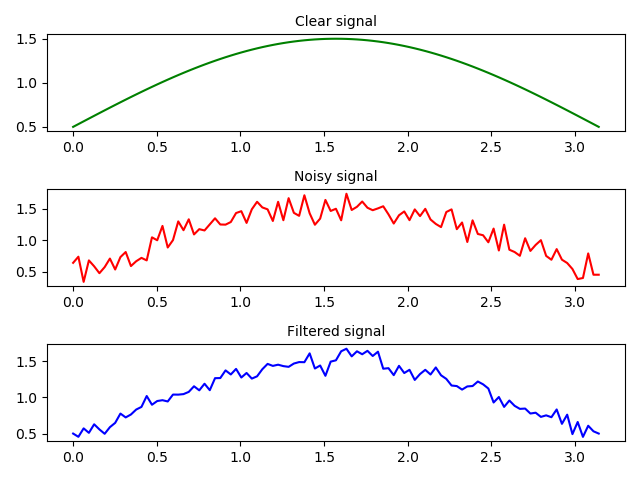
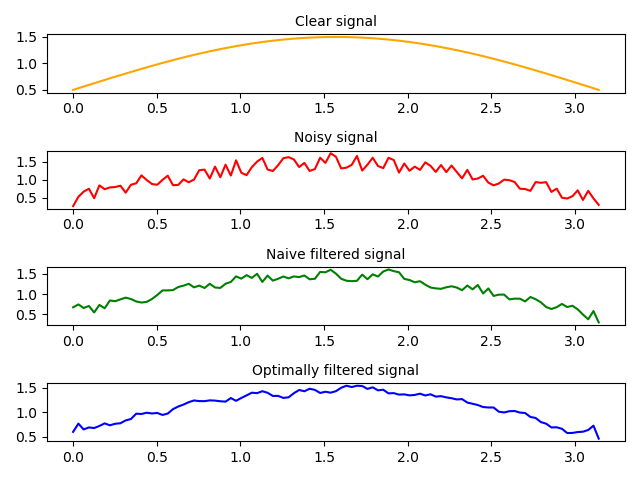
the rest of work

diff --git a/_masters_/decision_theory/lab4_filtration/filter.py b/_masters_/decision_theory/lab4_filtration/filter.py
@@ -1,13 +1,18 @@
 import math
 import random
 import matplotlib.pyplot as plt
+import numpy as np
 
-FUNC = lambda x: math.sin(x) + 0.5  # исходая функция
-K_STEPS = 100  # количество отсчетов
-R_WINDOW_SIZE = 3  # размер скользящего окна
-SIGMA_NOISE_AMPLITUDE = 0.25  # разброс значений зашемленного сигнала
-X_MIN = 0  # интервал от
-X_MAX = math.pi  # интервал до
+# @formatter:off
+SIGNAL_FUNC = lambda x: math.sin(x) + 0.5       # исходая функция
+K_STEPS = 100                                   # количество отсчетов
+R_WINDOW_SIZE = 5                               # размер скользящего окна
+SIGMA_NOISE_AMPLITUDE = 0.25                    # разброс значений зашемленного сигнала
+X_MIN = 0                                       # интервал от
+X_MAX = math.pi                                 # интервал до
+NAIVE_CENTRAL_ALPHA = 0.5                       # наивное значение alpha
+NAIVE_LAMBDA = 0.5                              # наивное значение лямбды
+# @formatter:on
 
 
 # шум с нормальным распределением
@@ -16,81 +21,165 @@ def uniform_noise(signal: float) -> float:
     return signal + noise
 
 
-# Среднее гармоническое
-# def harmonic_mean(k: int, m: int, alphas: list) -> float:
+# критерий зашумленности сигнала, метрика чебышева
+# aka максимальная разность двух рядомстоящих элементов
+def noisy_criteria(signal: list) -> float:
+    max_diff = -999999
+    for k in range(1, K_STEPS):
+        diff = abs(signal[k] - signal[k - 1])
+        if diff > max_diff:
+            max_diff = diff
+    return max_diff
 
-# Чебышева
+
+# критейрий близости сигналов, метрика чебышева
+def closeness_criteria(signal1: list, signal2: list) -> float:
+    max_diff = -999999
+    for k in range(0, K_STEPS):
+        diff = abs(signal1[k] - signal2[k])
+        if diff > max_diff:
+            max_diff = diff
+    return max_diff
+
+
+# метрика расстояния до идеальной точки, метрика чебышева
+def ideal_point_distance_metric(omega: float, delta: float) -> float:
+    return max(omega, delta)
 
 
 class Signal:
-    def __init__(self, func: callable, xmin: float, xmax: float, steps: int,
-                 window_size: int):
+    def __init__(self, func: callable):
         self.signal_function = func
-        self.x_min = xmin
-        self.x_max = xmax
-        self.steps = steps
-        self.window_size = window_size
-        self.m = (window_size - 1) // 2
+        self.m = (R_WINDOW_SIZE - 1) // 2
+        self.central_alpha = NAIVE_CENTRAL_ALPHA
+        self.lambda_weight = NAIVE_LAMBDA
 
     @property
-    def xs(self) -> list:
+    def xs(self):
         xs = []
-        x_curr = self.x_min
-        step = (self.x_max - self.x_min) / self.steps
-        while x_curr <= self.x_max:
+        x_curr = X_MIN
+        step = (X_MAX - X_MIN) / K_STEPS
+        while x_curr <= X_MAX:
             xs.append(x_curr)
             x_curr += step
         return xs
 
-    @property
     def clear_signal(self) -> list:
         return list(map(lambda x: self.signal_function(x), self.xs))
 
-    @property
     def noisy_signal(self) -> list:
-        return list(map(lambda signal: uniform_noise(signal), self.clear_signal))
+        return list(map(lambda signal: uniform_noise(signal), self.clear_signal()))
 
-    @property
-    def filtered_signal(self) -> list:
-        fs = self.noisy_signal
-        alphas = [0.4, 0.2, 0.4]  # TODO wtf is this
-
+    def filtered_signal(self, signal: list) -> list:
         filtered = []
-        filtered.extend(self.clear_signal[:self.m])
+        filtered.extend(signal[:self.m])  # TODO по краям - изначальный или шумный?
+
+        # @formatter:off
+        if 3 == R_WINDOW_SIZE:
+            alphas = [
+                (1 - self.central_alpha) / 2,       # i - 1
+                self.central_alpha,                 # i
+                (1 - self.central_alpha) / 2        # i + 1
+            ]
+        elif 5 == R_WINDOW_SIZE:
+            alphas = [
+                (1 - self.central_alpha) / 4,       # i - 2
+                (1 - self.central_alpha) / 4,       # i - 1
+                self.central_alpha,                 # i
+                (1 - self.central_alpha) / 4,       # i + 1
+                (1 - self.central_alpha) / 4        # i + 2
+            ]
+        else:
+            raise ValueError('invalid window size')
+        # @formatter:on
 
         k = self.m
-        while k < self.steps - self.m:
-            window_sum = sum([alphas[0] / fs[k - 1],
-                              alphas[1] / fs[k],
-                              alphas[2] / fs[k + 1]])
+        while k < K_STEPS - self.m:
+            # Среднее гармоническое
+            if 3 == R_WINDOW_SIZE:
+                window_sum = sum([alphas[0] / signal[k - 1],
+                                  alphas[1] / signal[k],
+                                  alphas[2] / signal[k + 1]])
+            else:
+                window_sum = sum([alphas[0] / signal[k - 2],
+                                  alphas[1] / signal[k - 1],
+                                  alphas[2] / signal[k],
+                                  alphas[3] / signal[k + 1],
+                                  alphas[4] / signal[k + 2]])
             harmonic_mean_value = 1 / window_sum
             filtered.append(harmonic_mean_value)
             k += 1
-        filtered.extend((self.clear_signal[k:]))
+        filtered.extend(signal[k:])
         return filtered
 
-    def plot(self):
-        plt.subplot(311)
-        plt.title('Clear signal', fontdict={'size': 10})
-        plt.plot(self.xs, self.clear_signal, c='green')
+    def linear_convolution_of_criteria(self):
+        omega = noisy_criteria(self.filtered_signal(self.noisy_signal()))
+        delta = closeness_criteria(self.filtered_signal(self.noisy_signal()), self.clear_signal())
+        return self.lambda_weight * omega + (1 - self.lambda_weight) * delta
 
-        plt.subplot(312)
-        plt.title('Noisy signal', fontdict={'size': 10})
-        plt.plot(self.xs, self.noisy_signal, c='red')
+    def optimize_alphas(self):
+        criterias = dict()
+        # разбиваем отрезок на N частей
+        alpha_range = np.linspace(start=0, stop=1, num=20)[1:-1]
+        for alpha in alpha_range:
+            self.central_alpha = alpha
+            # пересчитываем значение j
+            j = self.linear_convolution_of_criteria()
+            criterias[j] = alpha
 
-        plt.subplot(313)
-        plt.title('Filtered signal', fontdict={'size': 10})
-        plt.plot(self.xs, self.filtered_signal, c='blue')
+        # находим альфу,которой соответствует минимум функции J и делаем ее текущей
+        minimal_by_j_criteria = sorted(criterias.keys())[0]
+        self.central_alpha = criterias[minimal_by_j_criteria]
 
-        plt.tight_layout()
-        plt.savefig('plot.png')
+    def optimize_lambdas(self):
+        def dist():
+            omega = noisy_criteria(self.filtered_signal(self.noisy_signal()))
+            delta = closeness_criteria(self.filtered_signal(self.noisy_signal()), self.clear_signal())
+            return ideal_point_distance_metric(omega, delta)
+
+        criterias = dict()
+        lambdas_range = [1 / l for l in range(1, 20)]
+        for lambda_value in lambdas_range:
+            self.lambda_weight = lambda_value
+            # пересчитываем значение дистанции до опт. точки
+            d = dist()
+            criterias[d] = lambda_value
+
+        # находим лямбду
+        minimal_by_distance = sorted(criterias.keys())[0]
+        self.lambda_weight = criterias[minimal_by_distance]
+
+
+def main():
+    s = Signal(SIGNAL_FUNC)
+
+    # plot original
+    plt.subplot(411)
+    plt.title('Clear signal', fontdict={'size': 10})
+    plt.plot(s.xs, s.clear_signal(), c='orange')
+
+    # plot noisy
+    plt.subplot(412)
+    plt.title('Noisy signal', fontdict={'size': 10})
+    plt.plot(s.xs, s.noisy_signal(), c='red')
+
+    # plot naive filtered
+    plt.subplot(413)
+    plt.title('Naive filtered signal', fontdict={'size': 10})
+    plt.plot(s.xs, s.filtered_signal(signal=s.noisy_signal()), c='green')
+
+    # find optimal alphas, lambdas
+    s.optimize_alphas()
+    s.optimize_lambdas()
+
+    # plot with optimal alphas
+    plt.subplot(414)
+    plt.title('Optimally filtered signal', fontdict={'size': 10})
+    plt.plot(s.xs, s.filtered_signal(signal=s.noisy_signal()), c='blue')
+
+    plt.tight_layout()
+    plt.savefig('plot.png')
 
 
 if __name__ == '__main__':
-    Signal(
-        func=FUNC,
-        xmin=X_MIN,
-        xmax=X_MAX,
-        steps=K_STEPS,
-        window_size=R_WINDOW_SIZE
-    ).plot()
+    main()
